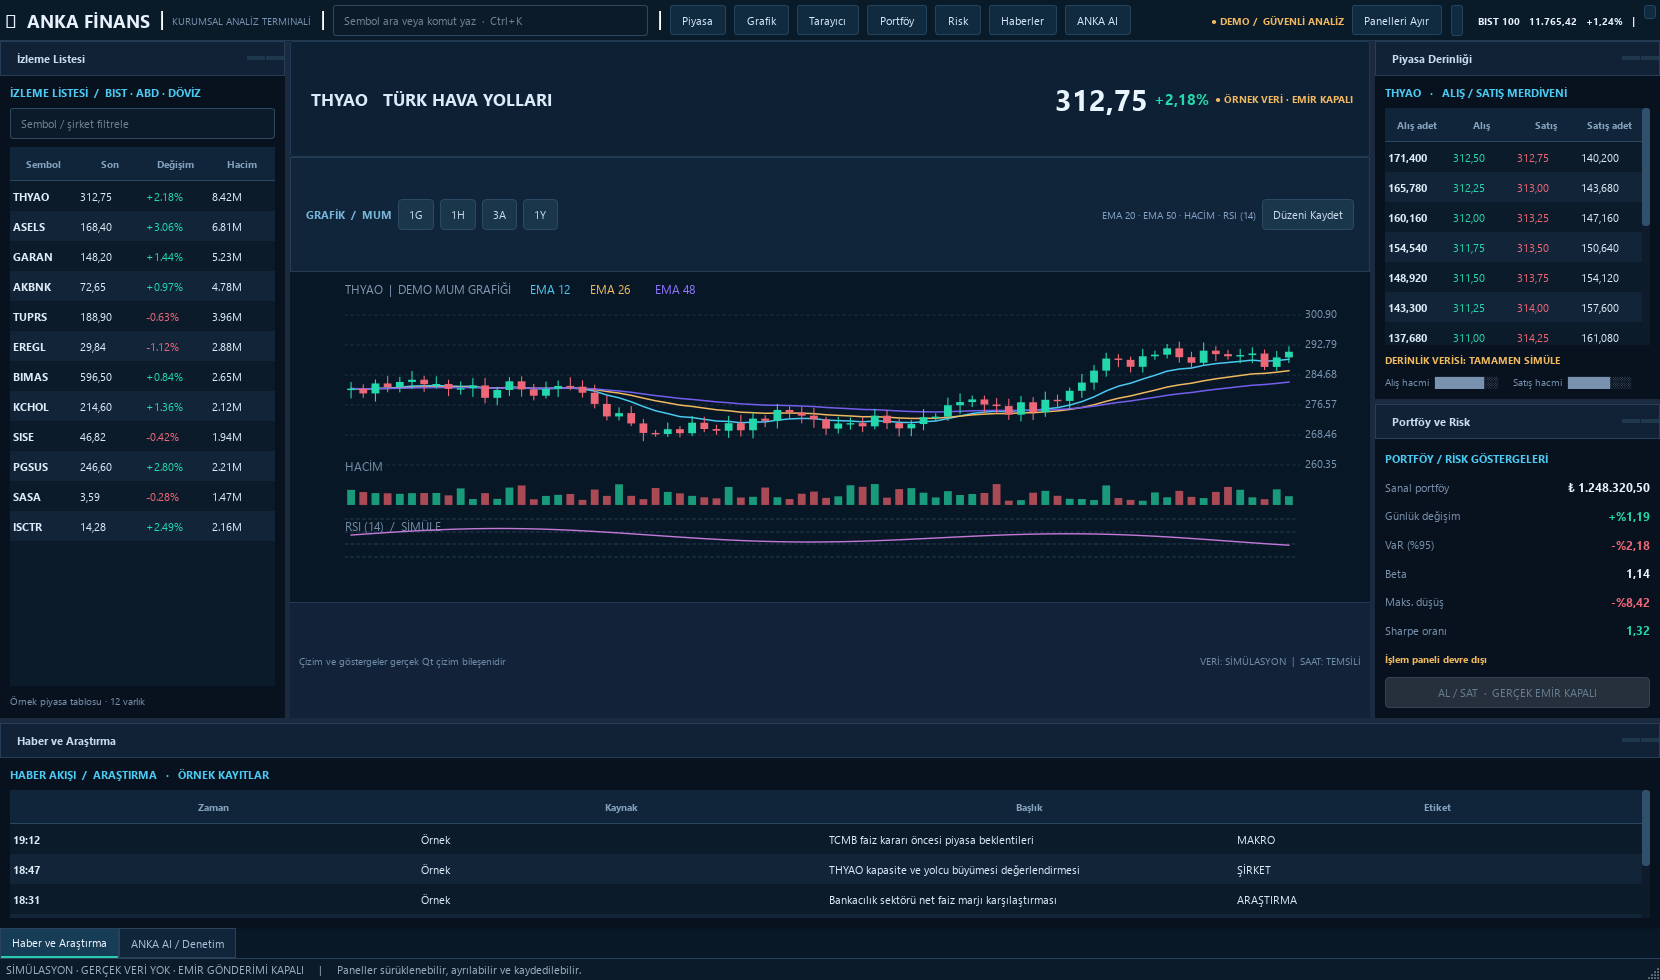
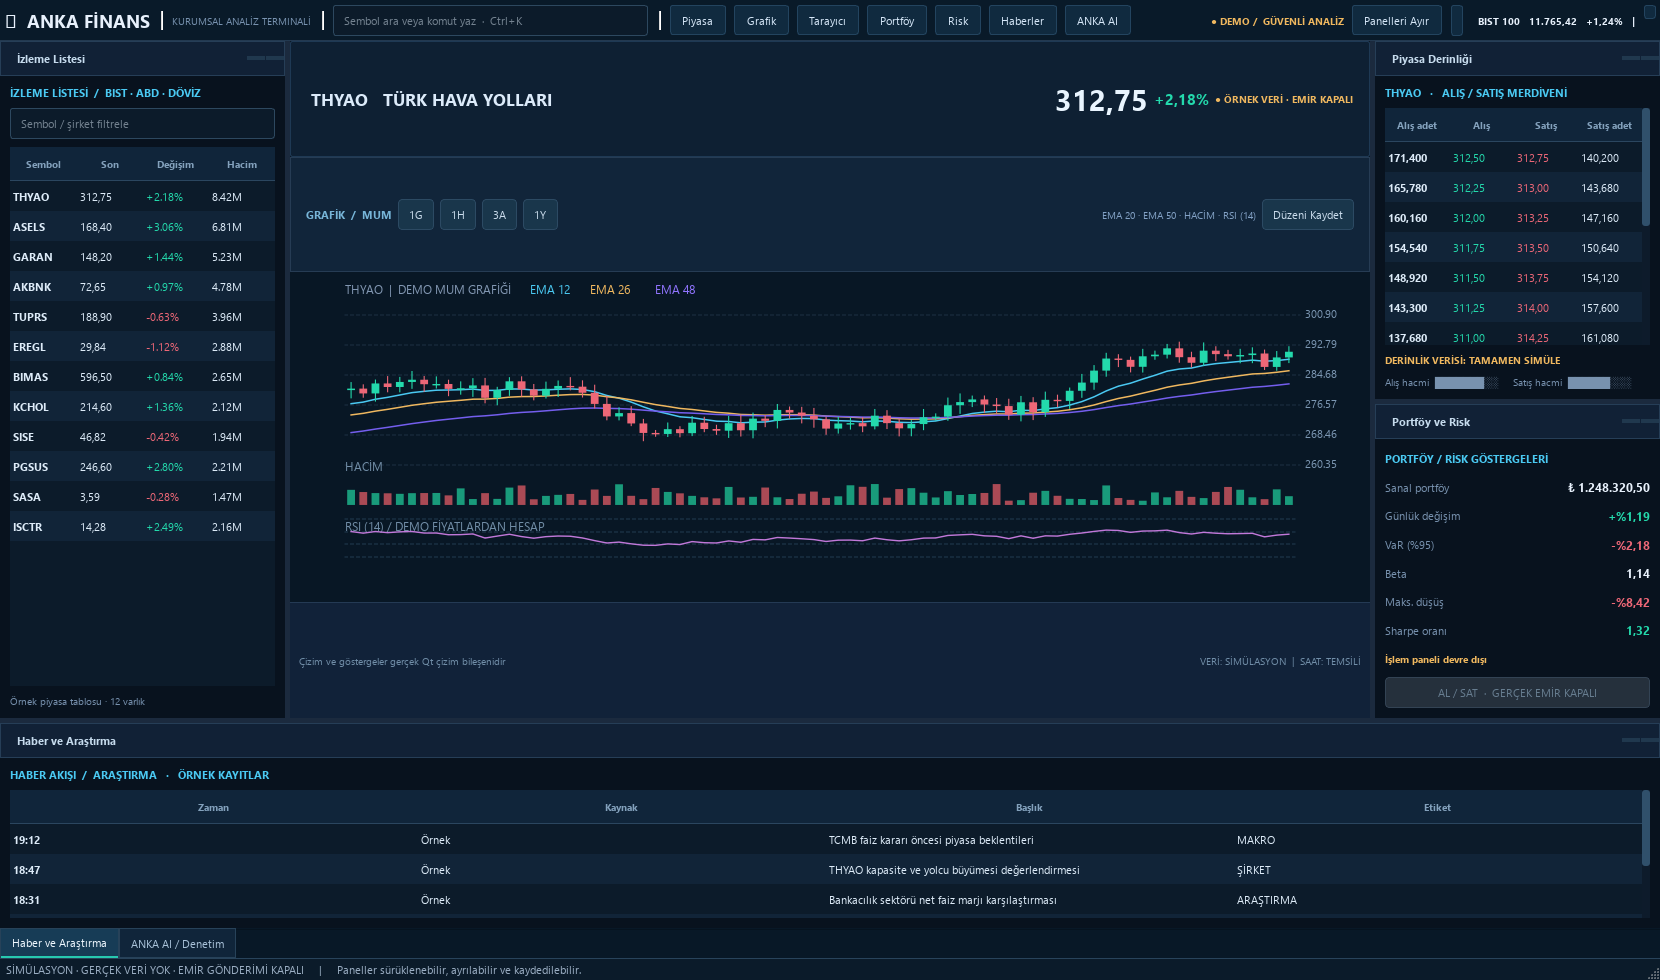
feat: validate OHLCV and calculate real EMA and Wilder RSI on demo history

diff --git a/core/chart_indicators.py b/core/chart_indicators.py
@@ -1,0 +1,91 @@
+"""Validated, deterministic financial chart indicators without third-party packages.
+
+EMA is seeded by the first full-period simple mean; Wilder RSI is seeded with
+the first period's average positive/negative price differences, then smoothed.
+No indicator value is emitted before its documented warm-up period.
+"""
+from __future__ import annotations
+
+import math
+from typing import Sequence
+
+
+def validate_ohlcv(rows: Sequence[tuple[float, float, float, float, float]]) -> list[float]:
+    """Validate strictly positive OHLC and nonnegative finite volume.
+
+    Returns closing prices; rejects forged/inconsistent highs/lows or NaN/Inf.
+    """
+    if not rows:
+        raise ValueError("OHLCV is empty")
+    closes: list[float] = []
+    for index, candle in enumerate(rows):
+        if len(candle) != 5:
+            raise ValueError(f"OHLCV candle {index} has wrong length")
+        try:
+            op, hi, lo, close, vol = tuple(float(x) for x in candle)
+        except (TypeError, ValueError, OverflowError) as exc:
+            raise ValueError(f"OHLCV candle {index} is not numeric") from exc
+        if not all(math.isfinite(x) for x in (op, hi, lo, close, vol)):
+            raise ValueError(f"OHLCV candle {index} is non-finite")
+        if min(op, hi, lo, close) <= 0 or vol < 0:
+            raise ValueError(f"OHLCV candle {index} has invalid magnitude")
+        if hi < max(op, close, lo) or lo > min(op, close, hi):
+            raise ValueError(f"OHLCV candle {index} violates price bounds")
+        closes.append(close)
+    return closes
+
+
+def _validate_closes(values: Sequence[float], period: int) -> list[float]:
+    if isinstance(period, bool) or not isinstance(period, int) or period <= 0:
+        raise ValueError("indicator period must be a positive integer")
+    out = []
+    for value in values:
+        try:
+            number = float(value)
+        except (TypeError, ValueError, OverflowError) as exc:
+            raise ValueError("closing prices must be numeric") from exc
+        if not math.isfinite(number) or number <= 0:
+            raise ValueError("closing prices must be positive and finite")
+        out.append(number)
+    return out
+
+
+def ema_series(values: Sequence[float], period: int) -> list[float | None]:
+    """EMA(period), initial SMA at index period-1; leading values None."""
+    values_ = _validate_closes(values, period)
+    result: list[float | None] = [None] * len(values_)
+    if len(values_) < period:
+        return result
+    mean = sum(values_[:period]) / period
+    result[period - 1] = mean
+    alpha = 2.0 / (period + 1.0)
+    for index in range(period, len(values_)):
+        mean += alpha * (values_[index] - mean)
+        result[index] = mean
+    return result
+
+
+def rsi_wilder_series(values: Sequence[float], period: int = 14) -> list[float | None]:
+    """Wilder RSI; first valid point at index period, neutral flat prices RSI=50."""
+    values_ = _validate_closes(values, period)
+    result: list[float | None] = [None] * len(values_)
+    if len(values_) <= period:
+        return result
+    changes = [values_[i] - values_[i - 1] for i in range(1, period + 1)]
+    avg_up = sum(max(change, 0) for change in changes) / period
+    avg_down = sum(max(-change, 0) for change in changes) / period
+
+    def rsi(up: float, down: float) -> float:
+        if down == 0.0:
+            return 50.0 if up == 0.0 else 100.0
+        if up == 0.0:
+            return 0.0
+        return 100.0 - (100.0 / (1.0 + up / down))
+
+    result[period] = rsi(avg_up, avg_down)
+    for index in range(period + 1, len(values_)):
+        difference = values_[index] - values_[index - 1]
+        avg_up = (avg_up * (period - 1) + max(difference, 0)) / period
+        avg_down = (avg_down * (period - 1) + max(-difference, 0)) / period
+        result[index] = rsi(avg_up, avg_down)
+    return result

diff --git a/tests/test_chart_indicators.py b/tests/test_chart_indicators.py
@@ -1,0 +1,81 @@
+"""Deterministic independent acceptance for professional ANKA EMA/RSI chart."""
+from __future__ import annotations
+import math
+import unittest
+
+from core.chart_indicators import ema_series, rsi_wilder_series, validate_ohlcv
+from scripts.anka_professional_toolchain_demo import demo_candles
+
+
+class FinancialIndicatorTests(unittest.TestCase):
+    def test_ema_seeded_with_sma_and_next_iterations(self):
+        result = ema_series([1, 2, 3, 4, 5], 3)
+        self.assertEqual(result, [None, None, 2.0, 3.0, 4.0])
+
+    def test_ema_valid_period_one_and_not_enough_data(self):
+        self.assertEqual(ema_series([100, 105], 1), [100.0, 105.0])
+        self.assertEqual(ema_series([100, 105], 3), [None, None])
+
+    def test_rsi_first_valid_value_and_trending_prices(self):
+        growing = rsi_wilder_series([float(n) for n in range(1, 25)], 14)
+        falling = rsi_wilder_series([float(n) for n in range(25, 0, -1)], 14)
+        flat = rsi_wilder_series([10.0] * 25, 14)
+        self.assertEqual(growing[:14], [None] * 14)
+        self.assertEqual(growing[14:], [100.0] * 10)
+        self.assertEqual(falling[14:], [0.0] * (len(falling) - 14))
+        self.assertEqual(flat[14:], [50.0] * (len(flat) - 14))
+
+    def test_rsi_known_wilder_reference_series(self):
+        # Wilder's 14-period textbook data, RSI value near 70.46.
+        values = [
+            44.34,44.09,44.15,43.61,44.33,44.83,45.10,45.42,45.84,
+            46.08,45.89,46.03,45.61,46.28,46.28,46.00,46.03,
+        ]
+        rsi = rsi_wilder_series(values,14)
+        self.assertAlmostEqual(rsi[14],70.46,delta=0.12)
+        self.assertEqual(len(rsi),len(values))
+        self.assertTrue(all(v is None or 0 <= v <= 100 for v in rsi))
+
+    def test_mixed_prices_remain_finite_in_range(self):
+        values = [100.0 + 5 * math.sin(i / 4.0) + i / 10 for i in range(70)]
+        a = rsi_wilder_series(values)
+        self.assertTrue(all(v is None or (math.isfinite(v) and 0 <= v <= 100) for v in a))
+
+    def test_no_input_mutation_or_history_dependent_on_viewport(self):
+        candles = demo_candles("THYAO")
+        original = [tuple(x) for x in candles]
+        closes = validate_ohlcv(candles)
+        full_ema = ema_series(closes, 26)
+        full_rsi = rsi_wilder_series(closes)
+        self.assertEqual(original, candles)
+        self.assertEqual(full_ema[-78:], ema_series(closes, 26)[-78:])
+        self.assertEqual(full_rsi[-78:], rsi_wilder_series(closes)[-78:])
+        self.assertEqual(len(full_ema), len(candles))
+
+    def test_ohlcv_validation_rejects_corrupt_rows(self):
+        good = [(100,105,99,104,2000), (104,108,101,102,0)]
+        self.assertEqual(validate_ohlcv(good),[104,102])
+        for bad in (
+            [], [(100, 98, 99, 101, 10)],
+            [(100,105,103,102,10)],
+            [(100,105,99,float("nan"),10)],
+            [(100,105,99,104,-1)],
+            [(100,105,99,float("inf"),10)],
+            [(100,105,99,104)],
+            [(0,5,1,3,10)],
+            [("secret",5,1,3,10)],
+        ):
+            with self.subTest(bad=bad), self.assertRaises(ValueError):
+                validate_ohlcv(bad)
+
+    def test_bad_indicator_inputs_are_rejected(self):
+        for p in (0,-1,1.5,True,None):
+            with self.subTest(period=p),self.assertRaises(ValueError):
+                ema_series([1,2,3],p)
+        for values in ([1,float("nan")], [1,float("inf")], [-1,2],[1,"bad"]):
+            with self.subTest(values=values),self.assertRaises(ValueError):
+                rsi_wilder_series(values,14)
+
+
+if __name__ == "__main__":
+    unittest.main()

diff --git a/scripts/anka_professional_toolchain_demo.py b/scripts/anka_professional_toolchain_demo.py
@@ -21,6 +21,7 @@ from PySide6.QtWidgets import (
     QSizePolicy, QSplitter, QTableWidget, QTableWidgetItem, QVBoxLayout, QWidget,
 )
 from PySide6.QtUiTools import QUiLoader
+from core.chart_indicators import validate_ohlcv, ema_series, rsi_wilder_series
 
 BG = "#08121E"
 SURFACE = "#0D1A2A"
@@ -197,6 +198,13 @@ class Canvas(QWidget):
         vol_h=(height-top-52)*.13
         rsi_top=volume_top+vol_h+15
         rsi_h=max(32,(height-45)-rsi_top)
+        # Indicators use the *full* candle history, independent of zoom.
+        closes = validate_ohlcv(self.series)
+        ema_tracks = {
+            period: ema_series(closes, period)[-self.visible:]
+            for period in (12, 26, 48)
+        }
+        rsi_track = rsi_wilder_series(closes, 14)[-self.visible:]
         series=self.series[-self.visible:]
         maxp=max(x[1] for x in series)*1.025
         minp=min(x[2] for x in series)*.975
@@ -210,18 +218,19 @@ class Canvas(QWidget):
             p.setFont(QFont("Segoe UI",8))
             p.drawText(int(width-right+10),int(y)+3,f"{maxp-i*(maxp-minp)/5:.2f}")
         for k,name,color in ((12,"EMA 12",CYAN),(26,"EMA 26",AMBER),(48,"EMA 48","#745EEE")):
-            values=[x[3] for x in series]
-            smooth=[]
-            prev=values[0]
-            for v in values:
-                prev=prev+(2/(k+1))*(v-prev)
-                smooth.append(prev)
             path=QPainterPath()
-            for i,v in enumerate(smooth):
+            started=False
+            for i,v in enumerate(ema_tracks[k]):
+                if v is None:
+                    started=False
+                    continue
                 x=left+(i+.5)*step
                 y=ys(v)
-                if i==0:path.moveTo(x,y)
-                else:path.lineTo(x,y)
+                if not started:
+                    path.moveTo(x,y)
+                    started=True
+                else:
+                    path.lineTo(x,y)
             p.setPen(QPen(QColor(color),1.5))
             p.drawPath(path)
         for i,(o,h,l,c,v) in enumerate(series):
@@ -242,14 +251,20 @@ class Canvas(QWidget):
             y=rsi_top+i*rsi_h/3
             p.setPen(QPen(QColor("#213B50"),1,Qt.PenStyle.DashLine))
             p.drawLine(left,int(y),width-right,int(y))
-        p.setPen(QColor("#718DA6"));p.drawText(left,int(rsi_top+12),"RSI (14)  /  SİMÜLE")
+        p.setPen(QColor("#718DA6"));p.drawText(left,int(rsi_top+12),"RSI (14) / DEMO FİYATLARDAN HESAP")
         path=QPainterPath()
-        for i,z in enumerate(series):
+        started=False
+        for i,val in enumerate(rsi_track):
+            if val is None:
+                started=False
+                continue
             x=left+(i+.5)*step
-            val=50+16*math.sin(i*.13)+11*math.sin(i*.041+1)
             y=rsi_top+rsi_h*(1-val/100)
-            if i==0:path.moveTo(x,y)
-            else:path.lineTo(x,y)
+            if not started:
+                path.moveTo(x,y)
+                started=True
+            else:
+                path.lineTo(x,y)
         p.setPen(QPen(QColor("#C178D9"),1.4))
         p.drawPath(path)
         if self.cursor_x is not None and left<self.cursor_x<width-right:

diff --git a/docs/ANKA_CHART_INDICATORS_ACCEPTANCE_20261011.md b/docs/ANKA_CHART_INDICATORS_ACCEPTANCE_20261011.md
@@ -1,0 +1,26 @@
+# ANKA Finans — EMA ve Wilder RSI sayısal doğrulaması
+
+**Tarih:** 11 Ekim 2026
+**Çalışma dalı:** `feature/anka-verified-chart-indicators-20261011` (ana kod tabanından izole).
+
+## Değişiklikler
+
+- `core/chart_indicators.py`: OHLCV doğrulama; NaN/Inf, uygunsuz yüksek/düşük, negatif hacim ve sıfır/negatif fiyat reddi.
+- EMA: ilk geçerli değer, periyot uzunluğundaki fiyatların basit ortalamasıyla başlatılır; sonraki değerlerde katsayı `2/(period+1)` uygulanır. Isınma döneminde `None`.
+- RSI (Wilder): önce 14 fiyat farkından ortalama kazanç/kayıp hesaplanır; devamında Wilder yumuşatma `(previous*(period-1)+current)/period`. Kayıp ve kazanç sıfırsa RSI=50, yalnız kazanç varsa 100, yalnız kayıp varsa 0.
+- `scripts/anka_professional_toolchain_demo.py`: mum grafiklerindeki eski görsel amaçlı sinüs RSI çizgisi kaldırıldı; gerçek RSI çıktı değerleri kullanılıyor. Üç EMA serisi de yalnızca ekranda görünen mumlardan değil **bütün mevcut mum geçmişinden** hesaplanıp görünür kesite aktarılıyor. Yakınlaştırma göstergenin hesap temelini sıfırlamıyor.
+- `tests/test_chart_indicators.py`: 8 matematiksel ve veri güvenliği kabul testi (Wilder referansı, ısınma, trend, yatay fiyat, geçersiz OHLCV, viewport kararlılığı). Önceki 292 regresyon testi korunuyor.
+- `docs/previews/ANKA_QtDesigner_DockChart_Real_20261011.png`: yeni hesaplarla gerçek Qt pencere yakalaması.
+
+## Doğrulama
+
+- Sayısal ve Qt hedefli test: **14/14 PASS**.
+- Tam çevrimdışı Python unittest: **300/300 PASS**, çıkış kodu 0.
+- Qt offscreen ekran oluşturma: **PASS**, 5 dock ve Qt Designer dosyası başarıyla yüklendi.
+- Test loglarında beklenen çevrimdışı veri/model hataları ve eski `datetime.utcnow` kullanımlarına yönelik uyarılar bulunuyor; bunlar ayrı bakım alanlarıdır.
+
+## Sınırlar
+
+Piyasa OHLCV verisi **simülasyondur**. Bu değişiklik gösterge formüllerini gerçek fiyatlardan hesaplar ama lisanslı canlı veri bağlamaz, alım-satım başlatmaz. Görüntüdeki risk ve haber değerleri hâlâ örnektir. `FULL_AUTONOMY` ve `PRODUCTION_ACCEPTANCE` henüz PASS değildir.
+
+Ana Windows kaynağındaki 28 yerel kullanıcı değişikliği korunur; kod `main` dalına birleştirilmez. Sıradaki doğrulanabilir işler gerçek veri kaynağı/tazelik damgası, zaman serisi kesintileri ve bağımsız model kod denetimidir.
